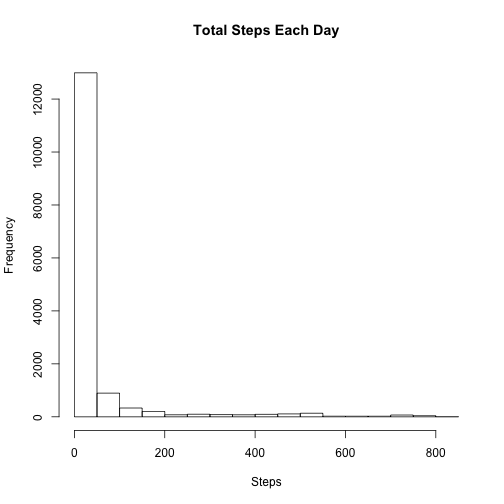
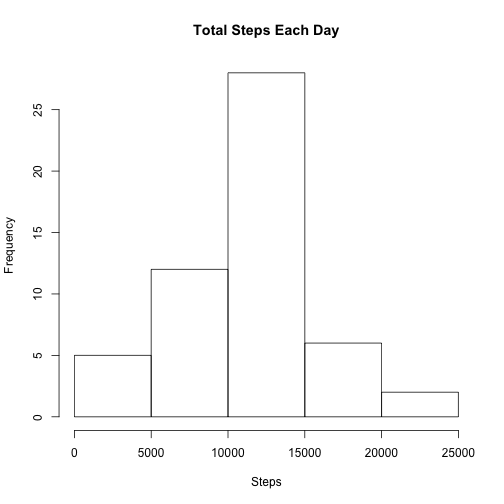
Update - added code to handle missing values

diff --git a/PA1_template.html b/PA1_template.html
@@ -205,15 +205,18 @@ summary(RawData)
 
 <pre><code class="r">ProcessData &lt;- na.omit(RawData) ## remove NA&#39;s
 TotalStepsDay &lt;- aggregate(.~date,data=ProcessData,FUN=sum) ## aggregate by date and sum steps
-hist(ProcessData$steps, main = &quot;Total Steps Each Day&quot;, xlab = &quot;Steps&quot;)
+hist(TotalStepsDay$steps, main = &quot;Total Steps Each Day&quot;, xlab = &quot;Steps&quot;)
 </code></pre>
 
[2 lines of base64/hex data omitted]
 
 <pre><code class="r">MeanSteps &lt;- mean(TotalStepsDay$steps)
+MedianSteps &lt;- median(TotalStepsDay$steps)
 </code></pre>
 
 <h3>The mean number of steps taken is 10766.</h3>
+
+<h3>The median number of steps taken is 10765.</h3>
 
 <h2>What is the average daily activity pattern?</h2>
 
@@ -229,7 +232,34 @@ title(main=&quot;Average Steps Taken per 5 minute Interval&quot;,xlab = &quot;5M
 
 <h3>The 835 is the 5 minute interval, on average over all days, that contains the maximum number of steps</h3>
 
-<h2>Imputing missing values</h2>
+<h2>Find and replace the missing values with the average steps taken in that 5 minute interval</h2>
+
+<pre><code class="r">IsNA &lt;- is.na(RawData$steps) ## find the missing values
+NumNA &lt;- sum(IsNA)  ## count the total number of missing observations
+IdxNA &lt;- which(IsNA)
+AveStepsInt &lt;- aggregate(.~interval,data=RawData,FUN=mean) ## ave steps for each interval
+NewData &lt;- RawData ## newdata has the NA&#39;s filled in
+## loop over each NA value
+for (i in 1:length(IdxNA)) {
+    tempIdx &lt;- which(NewData$interval[IdxNA[i]] == AveStepsInt$interval)
+    NewData$steps[IdxNA[i]] &lt;- AveStepsInt$steps[tempIdx]
+}
+## plot filled in data
+TotalStepsDay_New &lt;- aggregate(.~date,data=NewData,FUN=sum) ## aggregate by date and sum steps
+hist(TotalStepsDay_New$steps, main = &quot;Total Steps Each Day (No NA&#39;s)&quot;, xlab = &quot;Steps&quot;)
+</code></pre>
+
[1 lines of base64/hex data omitted]
+
+<pre><code class="r">MeanStepsNew &lt;- mean(TotalStepsDay_New$steps)
+MedianStepsNew &lt;- median(TotalStepsDay_New$steps)
+</code></pre>
+
+<h3>There are 2304 missing observations.</h3>
+
+<h3>The mean number of steps after NA replacement is 10766.</h3>
+
+<h3>The median number of steps after NA replacement is 10766.</h3>
 
 <h2>Are there differences in activity patterns between weekdays and weekends?</h2>
 

diff --git a/PA1_template.md b/PA1_template.md
@@ -37,16 +37,17 @@ summary(RawData)
 ```r
 ProcessData <- na.omit(RawData) ## remove NA's
 TotalStepsDay <- aggregate(.~date,data=ProcessData,FUN=sum) ## aggregate by date and sum steps
-hist(ProcessData$steps, main = "Total Steps Each Day", xlab = "Steps")
+hist(TotalStepsDay$steps, main = "Total Steps Each Day", xlab = "Steps")
 ```
 
 ![plot of chunk meansteps](figure/meansteps-1.png) 
 
 ```r
 MeanSteps <- mean(TotalStepsDay$steps)
+MedianSteps <- median(TotalStepsDay$steps)
 ```
 ### The mean number of steps taken is 10766.
-
+### The median number of steps taken is 10765.
 
 ## What is the average daily activity pattern?
 
@@ -64,8 +65,32 @@ MaxIdx <- which.max(AveStepsDay$steps) ## find index of max value
 
 ### The 835 is the 5 minute interval, on average over all days, that contains the maximum number of steps
 
-## Imputing missing values
+## Find and replace the missing values with the average steps taken in that 5 minute interval
 
+```r
+IsNA <- is.na(RawData$steps) ## find the missing values
+NumNA <- sum(IsNA)  ## count the total number of missing observations
+IdxNA <- which(IsNA)
+AveStepsInt <- aggregate(.~interval,data=RawData,FUN=mean) ## ave steps for each interval
+NewData <- RawData ## newdata has the NA's filled in
+## loop over each NA value
+for (i in 1:length(IdxNA)) {
+    tempIdx <- which(NewData$interval[IdxNA[i]] == AveStepsInt$interval)
+    NewData$steps[IdxNA[i]] <- AveStepsInt$steps[tempIdx]
+}
+## plot filled in data
+TotalStepsDay_New <- aggregate(.~date,data=NewData,FUN=sum) ## aggregate by date and sum steps
+hist(TotalStepsDay_New$steps, main = "Total Steps Each Day (No NA's)", xlab = "Steps")
+```
 
+![plot of chunk missingvalues](figure/missingvalues-1.png) 
+
+```r
+MeanStepsNew <- mean(TotalStepsDay_New$steps)
+MedianStepsNew <- median(TotalStepsDay_New$steps)
+```
+### There are 2304 missing observations.
+### The mean number of steps after NA replacement is 10766.
+### The median number of steps after NA replacement is 10766.
 
 ## Are there differences in activity patterns between weekdays and weekends?
